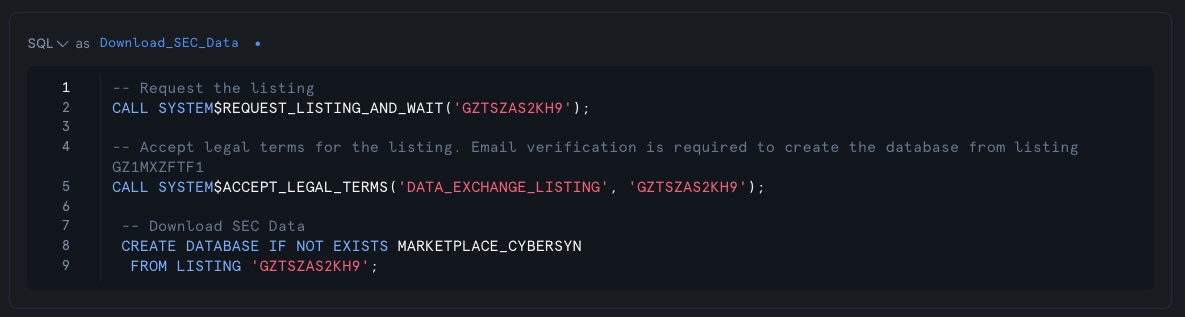
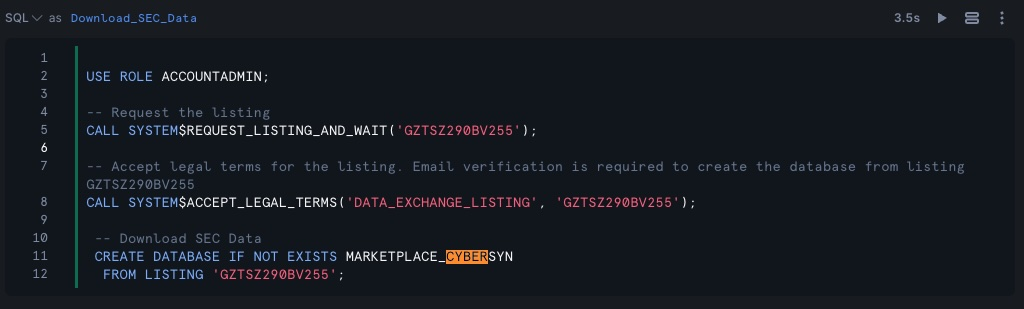
update listing
update the listings and path to data

diff --git a/site/sfguides/src/sec-tariff-sentiment/sec-tariff-sentiment.md b/site/sfguides/src/sec-tariff-sentiment/sec-tariff-sentiment.md
@@ -21,9 +21,9 @@ It leverages the SEC data of the catalog.
 
 In order to help customers experience the full power of their own data, Snowflake has curated hundreds of datasets that can be downloaded straight to your account from the Snowflake Marketplace!
 
-The contents of these data sets cover a myriad of topics, from [US Real Estate](https://app.snowflake.com/marketplace/listing/GZTSZAS2KI6/snowflake-public-data-products-us-real-estate?originTab=provider&providerName=Snowflake%20Public%20Data%20Products&profileGlobalName=GZTSZAS2KCS) to information about Canada's GDP in the [Canadian Government Data](https://app.snowflake.com/marketplace/listing/GZTSZAS2KFB/snowflake-public-data-products-canadian-government?originTab=provider&providerName=Snowflake%20Public%20Data%20Products&profileGlobalName=GZTSZAS2KCS) listing.
+The contents of these data sets cover a myriad of topics, from [US Real Estate](https://app.snowflake.com/marketplace/listing/GZTSZ290BV255) to information about Canada's GDP in the [Canadian Government Data](https://app.snowflake.com/marketplace/listing/GZTSZ290BV255) listing.
 
-A full list of Snowflake's data products can be browsed [here](https://data-catalog.snowflake.com/) and any of these data sets can be downloaded to your account from the [Marketplace Listing](https://app.snowflake.com/marketplace/listing/GZTSZ290BV255
+A full list of Snowflake's data products can be browsed [here](https://data-docs.snowflake.com/foundations/sources/) and any of these data sets can be downloaded to your account from the [Marketplace Listing](https://app.snowflake.com/marketplace/listing/GZTSZ290BV255
 )
 
 
@@ -45,7 +45,7 @@ History tables provide an auditable record of data changes over time.
 
 ### This Demo
 
-The SEC Tarrif Sentiment Demo downloads and utilizes the [SEC Filings](https://app.snowflake.com/marketplace/listing/GZTSZAS2KH9/snowflake-public-data-products-sec-filings) dataset. 
+The SEC Tarrif Sentiment Demo downloads and utilizes the [SEC Filings](https://app.snowflake.com/marketplace/listing/GZTSZ290BV255) dataset. 
 
 ### Prerequisites
 - Familiarity with Snowflake Marketplace
@@ -79,7 +79,7 @@ Duration: 2
 To download the SEC Filings data you have two options
 
 ### Download from the listing
-You can download the [SEC Filings](https://app.snowflake.com/marketplace/listing/GZTSZAS2KH9/snowflake-public-data-products-sec-filings) dataset from the listing.
+You can download the [SEC Filings](https://app.snowflake.com/marketplace/listing/GZTSZ290BV255) dataset from the listing.
 
 ### Run the notebook cell
 You can alternatively run the "Download_SEC_Data" cell of the notebook
